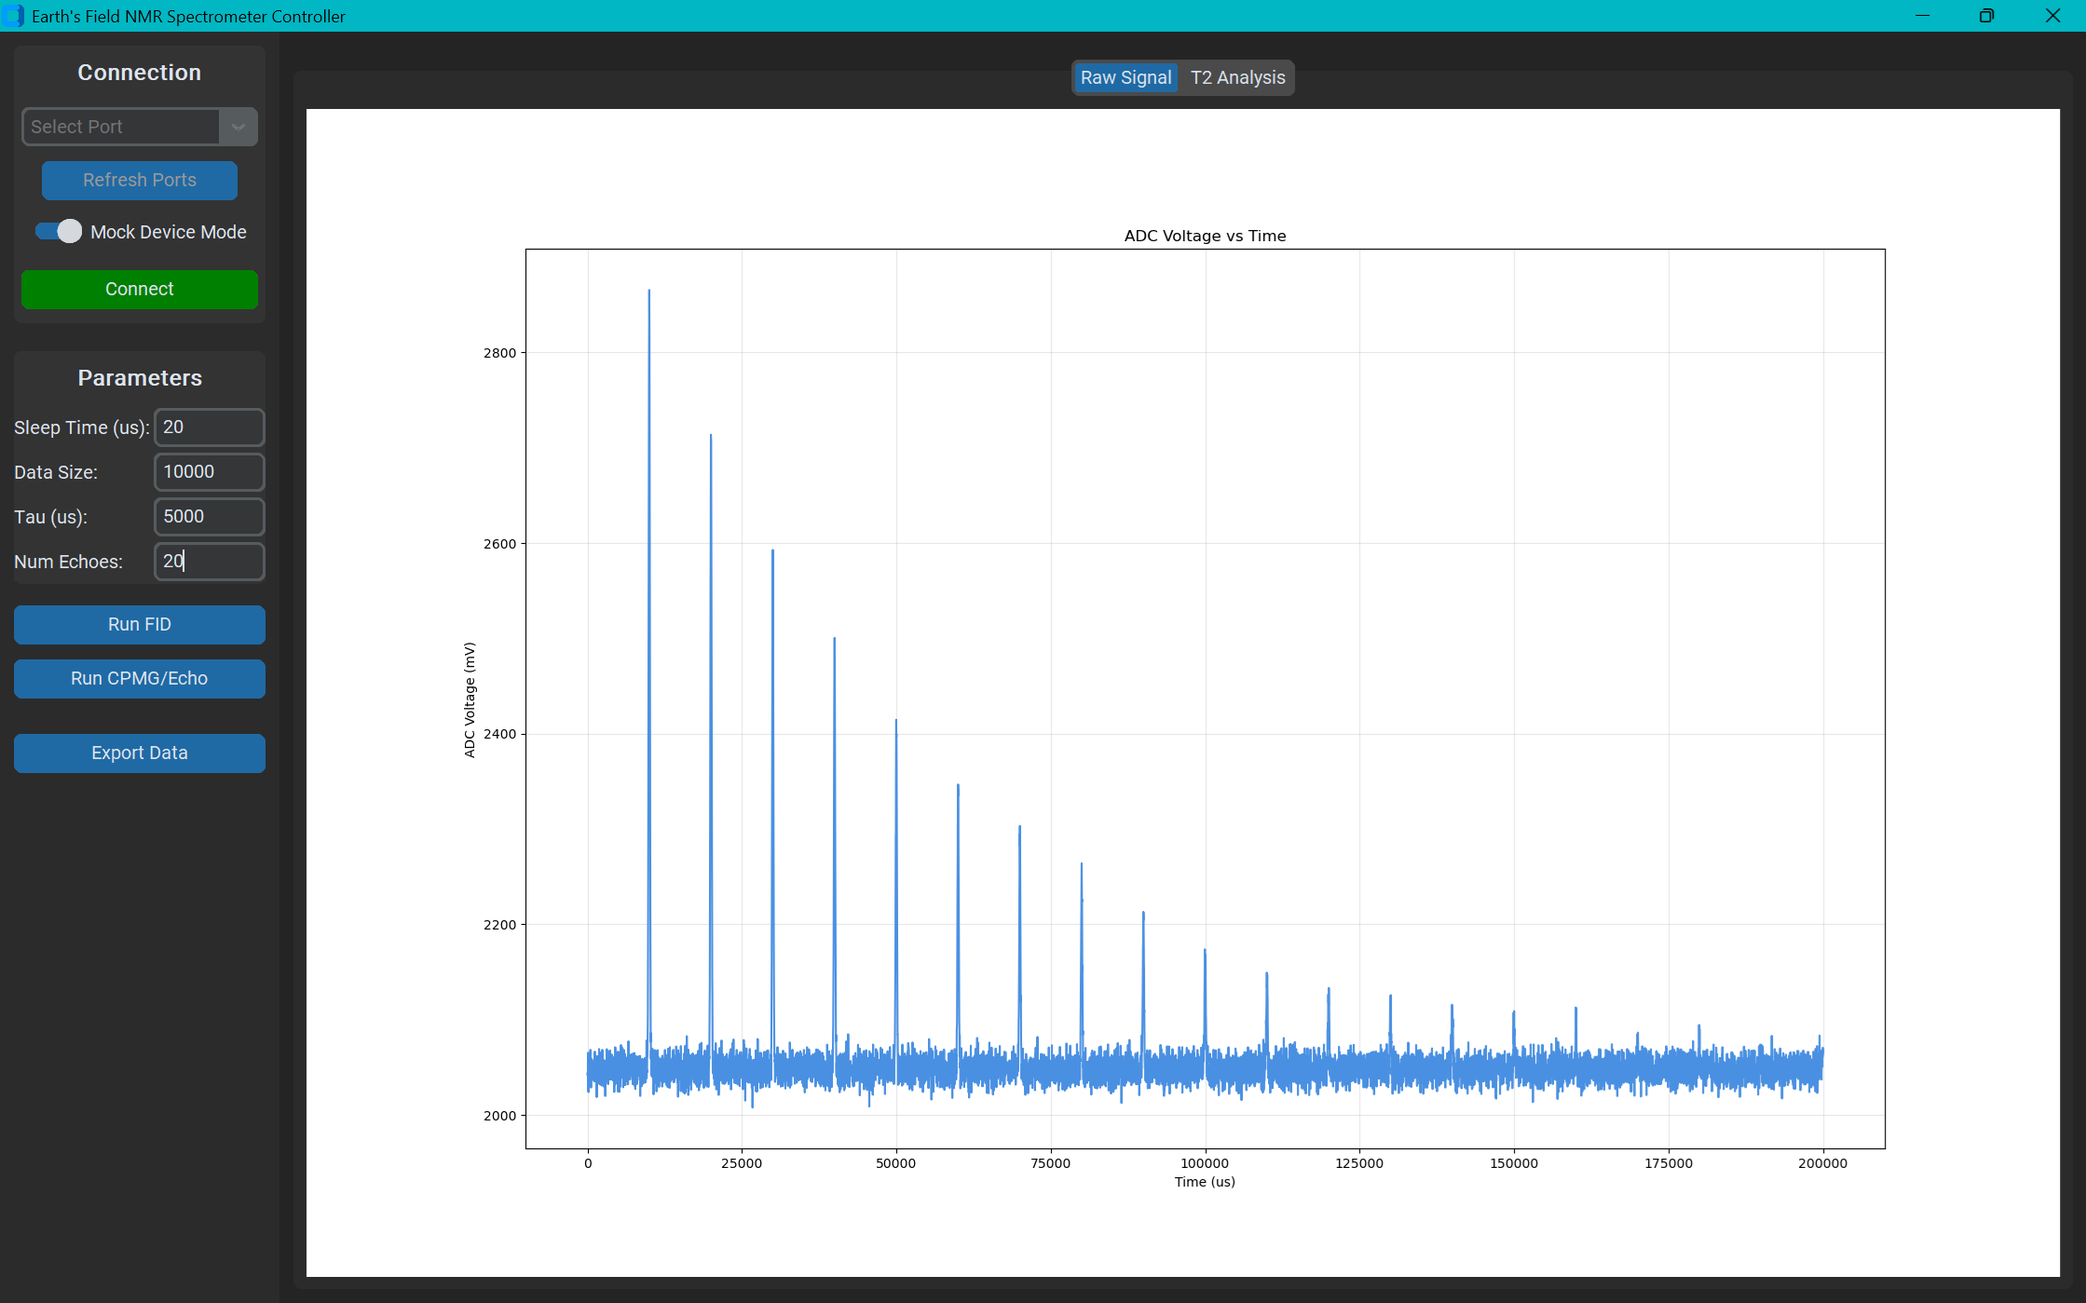
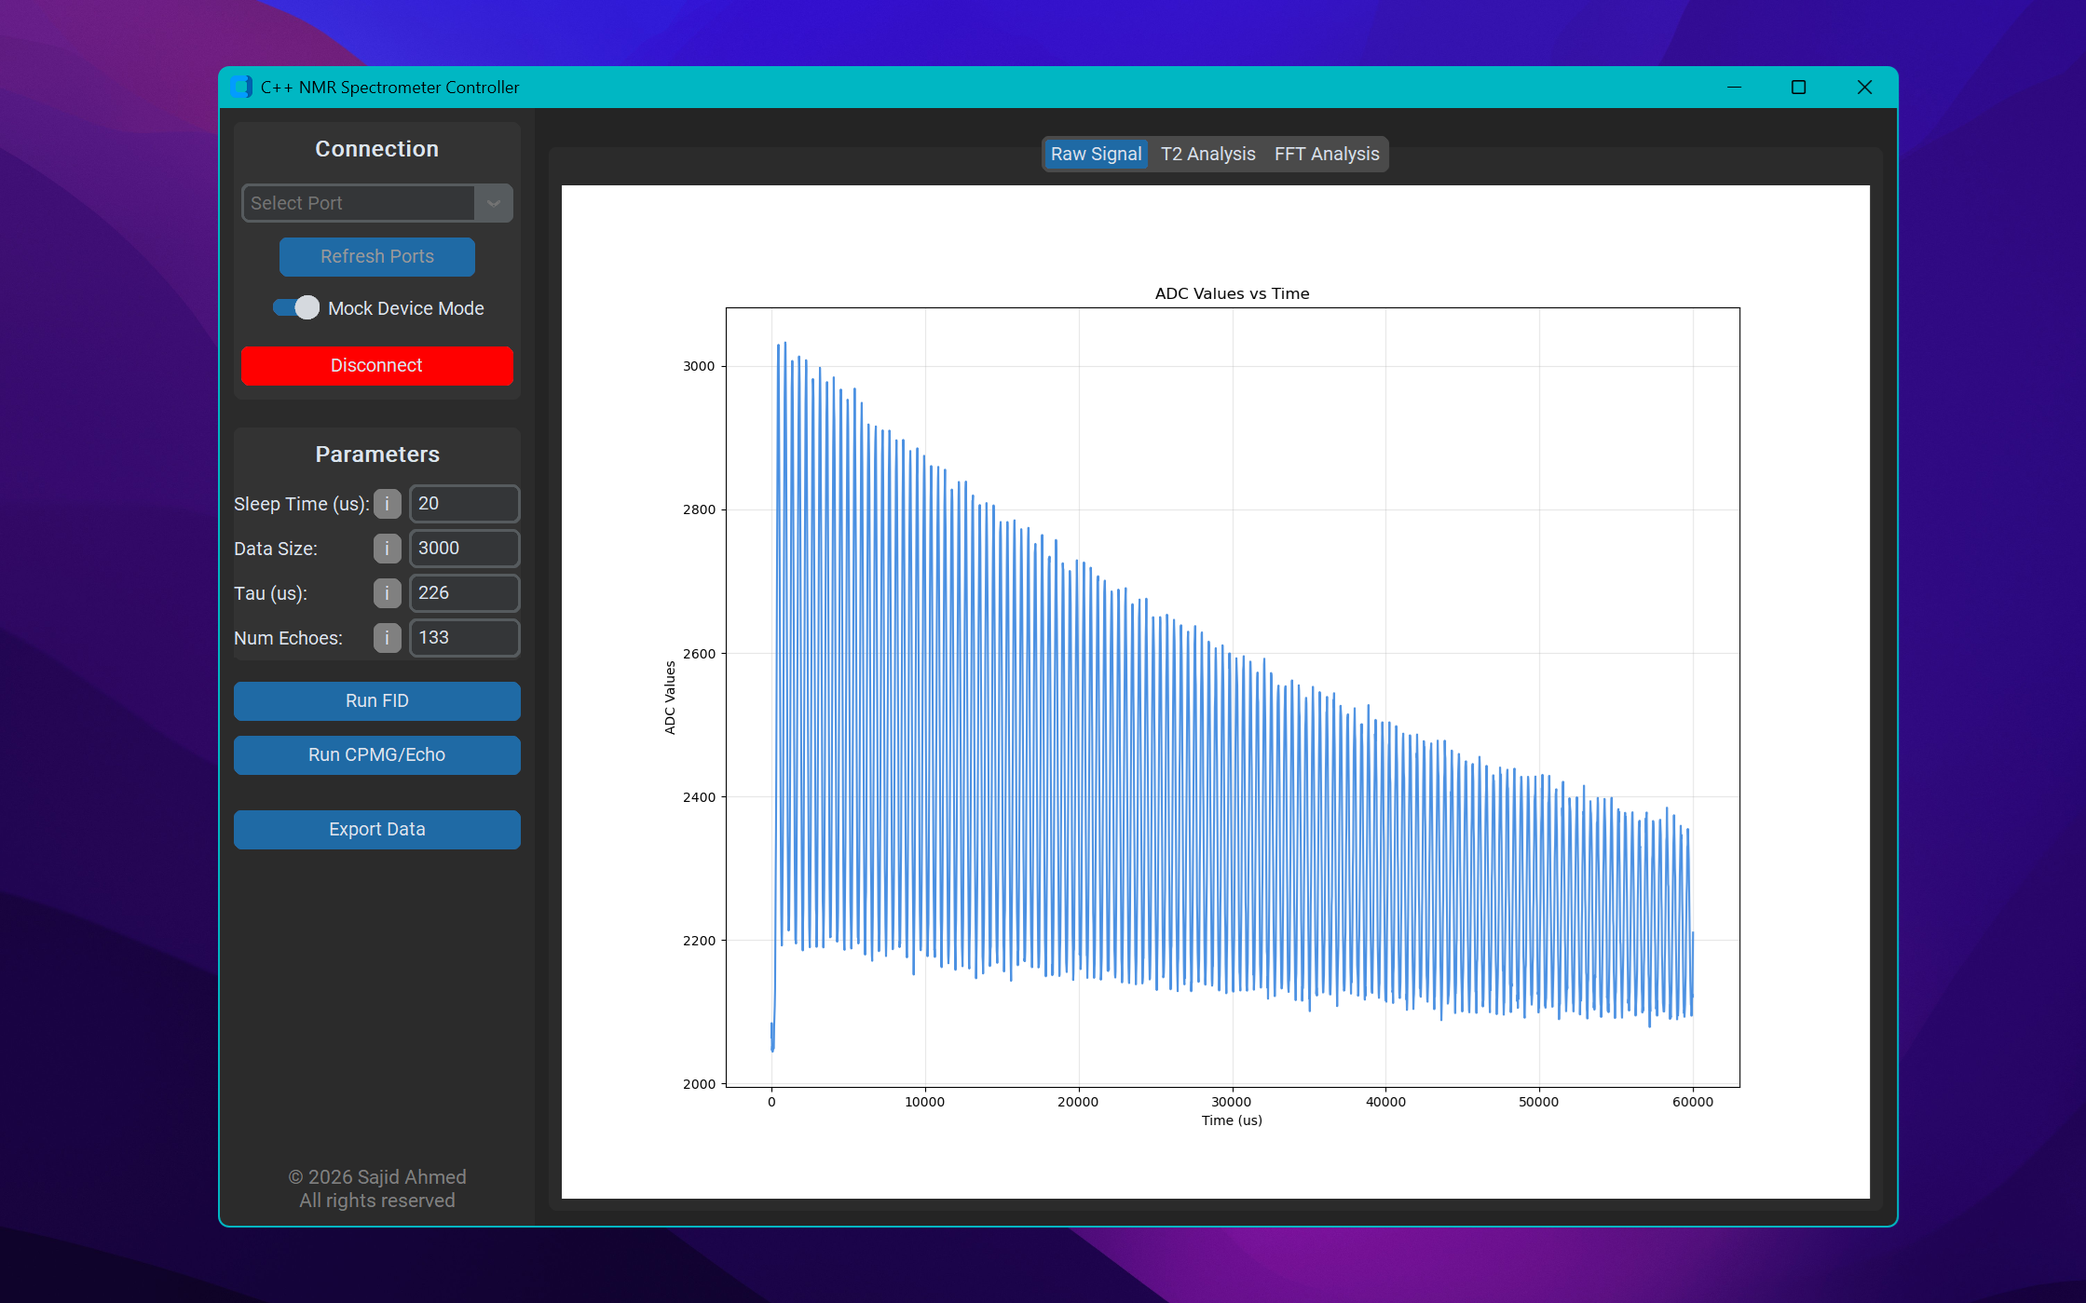
Improve Python GUI and enhance README

diff --git a/gui/gui.py b/gui/gui.py
@@ -10,14 +10,16 @@ import matplotlib.pyplot as plt # Matplotlib for plotting
 from matplotlib.backends.backend_tkagg import FigureCanvasTkAgg # Matplotlib for tkinter
 from tkinter import filedialog, messagebox # Tkinter for file dialogs and message boxes
 from scipy.optimize import curve_fit # Scipy for curve fitting
+from scipy.signal import find_peaks # Peak finding
+from datetime import datetime # Date for copyright
 
 # Configuration
-ctk.set_appearance_mode("System") # GUI appearance
+ctk.set_appearance_mode("Dark") # GUI appearance
 ctk.set_default_color_theme("blue") # GUI color theme
 
 class EFNMRApp(ctk.CTk):
     def __init__(self):
-        super().__init__() # Initialize the parent class
+        super().__init__() # Initialise the parent class
 
         self.title("C++ NMR Spectrometer Controller") # Window title
         self.geometry("1200x800") # Window size
@@ -63,10 +65,10 @@ class EFNMRApp(ctk.CTk):
         
         ctk.CTkLabel(self.param_frame, text="Parameters", font=("Roboto", 16, "bold")).pack(pady=5) # Parameters label
         
-        self.create_param_entry("Sleep Time (us):", "20") # Sleep time entry
-        self.create_param_entry("Data Size:", "10000") # Data size entry
-        self.create_param_entry("Tau (us):", "5000") # Tau entry
-        self.create_param_entry("Num Echoes:", "20") # Num echoes entry
+        self.create_param_entry("Sleep Time (us):", "20", "Time between samples. Determines sampling rate.") # Sleep time entry
+        self.create_param_entry("Data Size:", "3000", "Total data points. Affects frequency resolution.") # Data size entry
+        self.create_param_entry("Tau (us):", "226", "Pulse spacing / echo time for CPMG.") # Tau entry
+        self.create_param_entry("Num Echoes:", "133", "Number of echoes to acquire in CPMG.") # Num echoes entry
 
         # Command Buttons
         self.btn_fid = ctk.CTkButton(self.sidebar, text="Run FID", command=self.run_fid) # Run FID button
@@ -77,6 +79,11 @@ class EFNMRApp(ctk.CTk):
         
         self.btn_export = ctk.CTkButton(self.sidebar, text="Export Data", command=self.export_data, state="disabled") # Export data button
         self.btn_export.pack(pady=20, padx=10, fill="x")
+        
+        # Copyright
+        year = datetime.now().year
+        ctk.CTkLabel(self.sidebar, text=f"© {year} Sajid Ahmed\nAll rights reserved", 
+                     font=("Roboto", 14), text_color="gray").pack(side="bottom", pady=10)
 
         # Plots Area (Tabs)
         self.tab_view = ctk.CTkTabview(self) # Tab view
@@ -84,6 +91,7 @@ class EFNMRApp(ctk.CTk):
         
         self.tab_raw = self.tab_view.add("Raw Signal") # Raw signal tab
         self.tab_t2 = self.tab_view.add("T2 Analysis") # T2 analysis tab
+        self.tab_fft = self.tab_view.add("FFT Analysis") # FFT analysis tab
         
         # Raw Plot
         self.fig_raw, self.ax_raw = plt.subplots(figsize=(5, 4), dpi=100) # Raw plot
@@ -101,23 +109,45 @@ class EFNMRApp(ctk.CTk):
         self.ax_t2.set_title("T2 Relaxation Analysis") # T2 plot title
         self.ax_t2.set_xlabel("Time (ms)") # T2 plot x label
         self.ax_t2.set_ylabel("Peak Amplitude") # T2 plot y label
+        self.ax_t2.set_ylabel("Peak Amplitude") # T2 plot y label
         self.ax_t2.grid(True)
+
+        # FFT Plot
+        self.fig_fft, self.ax_fft = plt.subplots(figsize=(5, 4), dpi=100) # FFT plot
+        self.canvas_fft = FigureCanvasTkAgg(self.fig_fft, master=self.tab_fft) # FFT plot canvas
+        self.canvas_fft.get_tk_widget().pack(fill="both", expand=True) # FFT plot canvas packing
+        self.ax_fft.set_title("FFT Spectrum") # FFT plot title
+        self.ax_fft.set_xlabel("Frequency (Hz)") # FFT plot x label
+        self.ax_fft.set_ylabel("Magnitude") # FFT plot y label
+        self.ax_fft.grid(True)
         
         self.data_time = [] # Data time
         self.data_values = [] # Data ADC values
         self.t2_time = [] # T2 time
         self.t2_amp = [] # T2 amplitude
 
-    def create_param_entry(self, label, default): # Create parameter entry
+    def create_param_entry(self, label, default, tooltip_text=None): # Create parameter entry
         f = ctk.CTkFrame(self.param_frame, fg_color="transparent") 
         f.pack(fill="x", pady=2)
-        ctk.CTkLabel(f, text=label, width=100, anchor="w").pack(side="left")
+        lbl = ctk.CTkLabel(f, text=label, width=100, anchor="w")
+        lbl.pack(side="left")
         e = ctk.CTkEntry(f, width=80)
         e.pack(side="right")
         e.insert(0, default)
         
+        if tooltip_text:
+            # Add 'i' button
+            btn_help = ctk.CTkButton(f, text="i", width=20, height=20, 
+                                     fg_color="gray", hover_color="#555555",
+                                     command=lambda t=tooltip_text: self.show_help(t))
+            btn_help.pack(side="right", padx=(0, 5))
+        
         # Store reference by label
         setattr(self, f"entry_{label.split()[0].lower()}", e)
+        
+    def show_help(self, text):
+        # Native MessageBox
+        messagebox.showinfo("Parameter Info", text)
 
     def get_ports(self): # Get ports
         return [p.device for p in serial.tools.list_ports.comports()]
@@ -192,7 +222,9 @@ class EFNMRApp(ctk.CTk):
         
         if cmd_type == "FID": # If Mock FID
             # Decaying exponential sine
-            y = 2000 * np.exp(-t/10000) * np.sin(2 * np.pi * 0.002 * t) + 2048 # Mock FID Curve Data
+            # Target frequency 2210 Hz. t is in microseconds.
+            # 2210 Hz = 2210 cycles / 1000000 us = 0.00221 cycles/us
+            y = 2000 * np.exp(-t/10000) * np.sin(2 * np.pi * 0.00221 * t) + 2048 # Mock FID Curve Data
         else: # If Mock CPMG
             # CPMG: Series of echoes
             y = np.ones_like(t) * 2048 # Baseline
@@ -259,6 +291,74 @@ class EFNMRApp(ctk.CTk):
         # T2 Analysis if CPMG mode
         if mode == "CPMG" and len(self.data_values) > 0: # If CPMG mode and data available
             self.analyze_t2()
+            self.analyze_fft() # Also do FFT for CPMG
+        elif mode == "FID" and len(self.data_values) > 0:
+            self.analyze_fft()
+
+    def analyze_fft(self):
+        try:
+            # Check inputs
+            sleep_us = int(self.entry_sleep.get())
+            
+            # Preprocessing
+            signal = np.array(self.data_values)
+            
+            # 1. Remove DC Offset
+            signal = signal - np.mean(signal)
+            
+            # 2. Windowing (Hanning)
+            window = np.hanning(len(signal))
+            signal_windowed = signal * window
+            
+            # 3. Zero-padding
+            # Pad to next power of 2, times 4 for better resolution
+            n = len(signal)
+            n_padded = 2**int(np.ceil(np.log2(n))) * 4
+            
+            # FFT
+            fft_vals = np.fft.fft(signal_windowed, n=n_padded)
+            # Sample spacing in seconds
+            dt = sleep_us * 1e-6 
+            freqs = np.fft.fftfreq(n_padded, d=dt)
+            
+            # Magnitude
+            magnitude = np.abs(fft_vals)
+            
+            # Keep only positive frequencies
+            mask = freqs >= 0
+            freqs = freqs[mask]
+            magnitude = magnitude[mask]
+            
+            # Plot
+            self.ax_fft.clear()
+            self.ax_fft.plot(freqs, magnitude, color='#e91e63')
+            self.ax_fft.set_title("FFT Spectrum")
+            self.ax_fft.set_xlabel("Frequency (Hz)")
+            self.ax_fft.set_ylabel("Magnitude")
+            self.ax_fft.grid(True, alpha=0.3)
+            
+            # Find peak frequency
+            peaks, _ = find_peaks(magnitude, height=np.max(magnitude)*0.1) # Find peaks > 10% max
+            
+            # Sort by height to get top peaks
+            if len(peaks) > 0:
+                sorted_indices = np.argsort(magnitude[peaks])[::-1]
+                top_peaks = peaks[sorted_indices[:3]] # Top 3 peaks
+                
+                for p in top_peaks:
+                    f_val = freqs[p]
+                    m_val = magnitude[p]
+                    self.ax_fft.annotate(f"{f_val:.1f} Hz", xy=(f_val, m_val), 
+                                         xytext=(0, 10), textcoords="offset points",
+                                         ha='center', fontsize=8, color='#e91e63')
+            
+            self.fft_freqs = freqs
+            self.fft_magnitude = magnitude
+            
+            self.canvas_fft.draw()
+            
+        except Exception as e:
+            print(f"FFT Error: {e}")
             
     def analyze_t2(self): # Analyze T2
         # Extract peaks from echo train
@@ -339,6 +439,14 @@ class EFNMRApp(ctk.CTk):
                     writer.writerow(["Time_ms", "Peak_Amplitude"]) # Write header
                     for t, v in zip(self.t2_time, self.t2_amp): # For each data point
                         writer.writerow([t, v]) # Write data point
+
+            # Save FFT data if exists
+            if hasattr(self, 'fft_freqs') and len(self.fft_freqs) > 0:
+                with open(filename.replace(".csv", "_FFT.csv"), 'w', newline='') as f:
+                    writer = csv.writer(f)
+                    writer.writerow(["Frequency_Hz", "Magnitude"])
+                    for fr, m in zip(self.fft_freqs, self.fft_magnitude):
+                        writer.writerow([fr, m])
 
 if __name__ == "__main__": # If main
     app = EFNMRApp() # Create app

diff --git a/README.md b/README.md
@@ -1,87 +1,81 @@
-# NMR Spectrometer Controller Firmware & GUI (C++)
+# NMR Spectrometer Controller (C++ & Python)
 
-A high-precision, low-cost controller for Earth's Field Nuclear Magnetic Resonance (EFNMR) spectroscopy, built on the **Raspberry Pi Pico (RP2040/RP2350)**.
+A high-precision, low-cost controller for Earth's Field Nuclear Magnetic Resonance (EFNMR) spectroscopy, built on the **Raspberry Pi Pico (RP2040)**.
 
-This project uses Pico's advanced **PIO (Programmable I/O)** and **DMA (Direct Memory Access)** to generate cycle-accurate pulse sequences (CPMG, FID) and to capture high-speed ADC data simultaneously, without CPU overhead.
+This project demonstrates a full-stack engineering approach, combining bare-metal firmware, custom hardware interfaces (PIO/DMA), and a modern desktop application for scientific data analysis.
 
-## 🚀 Features
+---
 
-*   **Cycle-Accurate Timing:** Uses dedicated PIO hardware to generate RF pulses with microsecond precision, completely independent of CPU jitter.
-*   **Background Data Acquisition:** Uses DMA to stream ADC data directly to memory, ensuring no samples are missed during complex pulse sequences.
-*   **User-Friendly GUI:** A modern Python interface (CustomTkinter) to control parameters, visualise echoes in real-time, and perform T2 relaxation analysis.
-*   **Supported Sequences:**
-    *   **FID:** Free Induction Decay (Single Pulse).
-    *   **CPMG:** Carr-Purcell-Meiboom-Gill (Spin Echo Train) for T2 measurement.
+## 🏛 Technical Architecture
 
-## User Interface
-### Free Induction Decay
-![free induction decay](images/FID.png)
+This system allows for sub-microsecond timing precision and gapless data acquisition, overcoming the traditional limitations of standard microcontrollers.
 
-### Carr-Purcell-Meiboom-Gill Pulse Sequence
-![CPMG pulse sequence](images/CPMG.png)
+### 1. PIO (Programmable I/O) Pulse Generation
+The RP2040's unique PIO subsystem is used to implement a custom assembly state machine (`pio_pulses.pio`). 
+-   **Cycle-Accurate Timing**: Generates RF pulses (B1 field) with 125MHz clock precision, completely independent of CPU jitter or interrupts.
+-   **Complex Sequences**: Capable of executing multi-pulse sequences like **CPMG** (Carr-Purcell-Meiboom-Gill) for T2 relaxation measurement, handling microsecond-level spacing between thousands of echoes.
 
-### Transverse ($$T2$$) Relaxation Time
-![transverse relaxation time](images/T2.png)
+### 2. DMA (Direct Memory Access) Acquisition
+-   **Gapless Streaming**: Uses DMA channels to stream ADC data directly into a ring buffer in RAM.
+-   **Zero CPU Overhead**: The CPU is free to process logic or communicate with the PC while data is being captured at full samplerate (up to 500 kS/s).
 
-## 🛠 Hardware Setup
+### 3. Firmware (C++)
+-   **Bare-Metal Performance**: Written in C++ using the Pico SDK (Arduino Core) for maximum efficiency.
+-   **State Machine**: Manages the spectrometer states (Idle, Tuning, Pulse, Acquire) and handles high-speed Serial communication with the host.
 
-The system is designed for a Raspberry Pi Pico.
+### 4. Desktop GUI (Python)
+-   **Modern Interface**: Built with `CustomTkinter` for a professional, dark-themed user experience.
+-   **Multithreading**: Handles Serial I/O in background threads to ensure the UI remains responsive during long experiments.
+-   **Real-Time Visualization**: Uses `Matplotlib` to render high-frequency ADC data and analysis results instantly.
 
-| Pin | Function | Description |
-| :--- | :--- | :--- |
-| **GP16** | `PULSE_PIN` | MOSFET Driver for the RF Transmit Coil (B1 field) |
-| **GP26** | `PP_COIL_PIN` | Relay/Switch for Pre-Polarisation Coil (Bp field) |
-| **GP22** | `DET_SWITCH_PIN` | RX Isolation Switch (Protects receiver during pulses) |
-| **GP28** | `ADC_PIN` | Analog Input from the Receiver (Pre-amp output) |
-| **GP25** | `LED_PIN` | On-board Status LED |
+---
 
-> **Note:** The Larmor frequency is configured for approx **2.2 kHz** (standard Earth's Field) but can be tuned in `main.ino`.
+## 📊 Data Analysis Features
 
-## 📦 Software Installation
+The software provides real-time signal processing to extract physical properties from the raw NMR data.
 
-### 1. Firmware (Raspberry Pi Pico)
-1.  Install the **Arduino IDE**.
-2.  Install the **Raspberry Pi Pico Arduino Core** by Earle F. Philhower (search for "Pico" in Board Manager).
-3.  Select your board (Raspberry Pi Pico or Pico 2).
-4.  Open `main.ino` and upload it to the board.
+### T2 Relaxation Analysis (CPMG)
+For spin-echo trains, the software performs automated peak detection and curve fitting.
+-   **Algorithm**: Extracts the peak amplitude of each echo in the train.
+-   **Fitting**: Fits a mono-exponential decay $$V(t) = A \cdot e^{-t/T_2}$$ to determine the Transverse Relaxation Time ($$T_2$$), a key indicator of molecular environment (e.g., distinguishing oil vs water).
 
-### 2. GUI (Computer)
-Ensure you have Python installed. Install the required dependencies:
+### Fast Fourier Transform (FFT)
+To determine the exact Larmor frequency of the sample (typically ~2 kHz in Earth's field):
+-   **Preprocessing**: Applies DC offset removal, basic denoising, and Hanning windowing to the FID signal.
+-   **Spectrum**: Computes the FFT to display the frequency domain, with automatic peak detection to label the Larmor frequency.
 
-```bash
-pip install customtkinter pyserial numpy matplotlib scipy
-```
+---
 
-## 🖥 Usage
+## 📸 System Gallery
 
-1.  **Connect** the Pico to your computer via USB.
-2.  **Run the GUI**:
-    ```bash
-    python gui/gui.py
-    ```
-3.  **Control Panel**:
-    *   **Port:** Select the COM port of your Pico.
-    *   **Connect:** Click to establish serial communication.
-    *   **Parameters:**
-        *   `Sleep Time`: Sampling interval in µs (inverse of sample rate).
-        *   `Data Size`: Number of points to capture.
-        *   `Tau`: Delay between pulses (half-echo spacing).
-    *   **Num Echoes**: Number of 180° pulses in the train.
-    *   **Run:** Click **Run FID** or **Run CPMG**.
-4.  **Export:** Save your data to CSV for further processing.
+### 1. Free Induction Decay (FID)
+*Raw signal from the probe showing the decaying Larmor precession.*
+![Free Induction Decay](images/FID.png)
 
-## 🔬 How It Works (The "Secret Sauce")
+### 2. Larmor Frequency
+*Fast Fourier Transform (FFT) of the FID, showing the Larmor frequency.*
+![Free Induction Decay FFT](images/FID-FFT.png)
 
-### The PIO Engine (`pio_pulses.pio`)
-Instead of using `delay()` or interrupts, which are inaccurate, we write a custom assembly program for the Pico's PIO state machines. This program sits in the background and waits for commands. When we say "Go", it executes the entire Pulse-Delay-Pulse sequence with 125MHz precision.
+### 3. CPMG Pulse Sequence
+*A train of spin echoes generated by the PIO engine, used for T2 measurement.*
+![CPMG Echo Train](images/CPMG.png)
 
-### The DMA Engine
-While the PIO is blasting RF pulses, the ADC is running at full speed. We use a DMA channel to silently read every byte from the ADC and store it in a RAM buffer. The main CPU does nothing but wait for the "Done" signal!
+### 3. T2 Relaxation Fit
+*Automated exponential fit of the echo amplitudes.*
+![T2 Analysis](images/T2.png)
 
-## 📄 License
-Copyright © 2026 Sajid Ahmed. All Rights Reserved.
+### 4. Fourier Transform of the CPMG Echo Train
+*Fast Fourier Transform (FFT) of the CPMG echo train, showing the NMR peaks.*
+![CPMG Echo Train FFT](images/CPMG-FFT.png)
 
-This repository is intended solely for portfolio review and recruitment purposes. By accessing this repository, you acknowledge the following terms:
-- View Only: Permission is granted to view the source code for the purpose of evaluating my professional skills and experience.
-- No Unauthorised Use: No permission is granted to copy, modify, distribute, or use this code for any personal, commercial, or educational project.
-- No AI Training: Use of this source code for the purpose of training machine learning models or generative AI is strictly prohibited.
+---
+
+## 📄 License & Restrictions
+
+**Copyright © 2026 Sajid Ahmed. All Rights Reserved.**
+
+This repository is published for **Portfolio Review** purposes only.
+
+*   **View Only**: You are granted permission to view this code to evaluate professional skills.
+*   **No Unauthorised Use**: You may NOT copy, fork, modify, distribute, or run this software.
+*   **No AI Training**: You may NOT use this code to train machine learning models.
